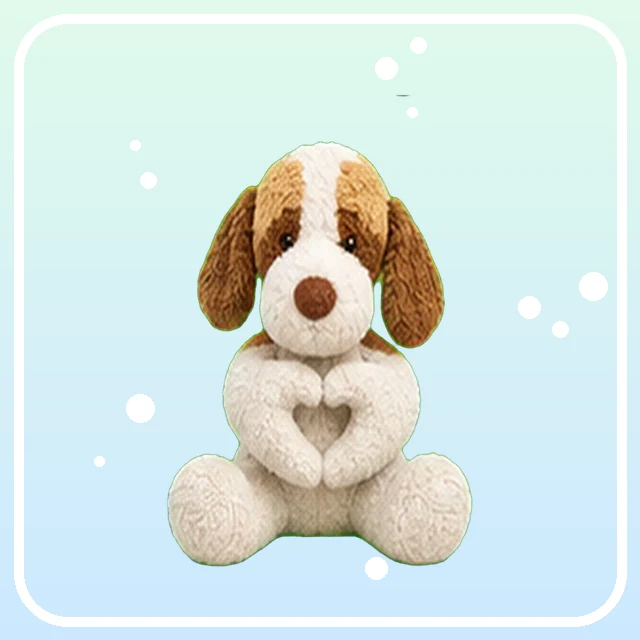
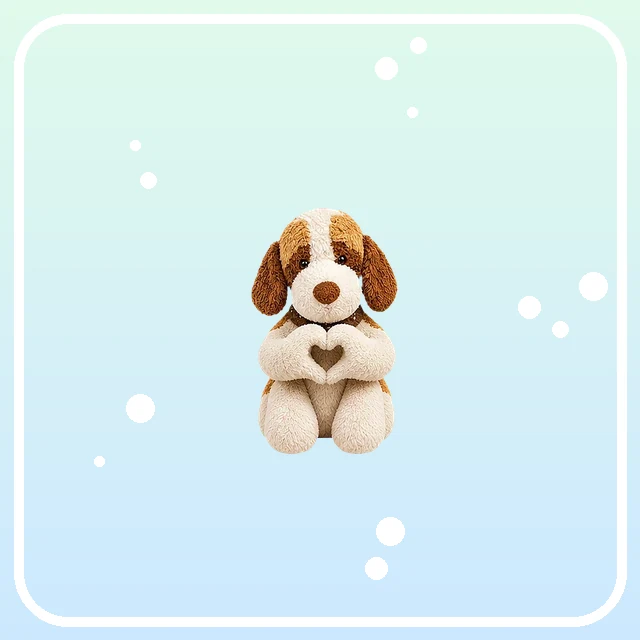
feat: refresh Baibai navigation artwork

Changed region(s): [[0.25, 0.2188, 0.75, 0.9062]]

diff --git a/sw.js b/sw.js
@@ -1,4 +1,4 @@
-const CACHE = "learning-planet-v7";
+const CACHE = "learning-planet-v8";
 const CORE = ["./", "./index.html", "./app.js", "./manifest.json", "./assets/baibai-base.png"];
 self.addEventListener("install", e => e.waitUntil(caches.open(CACHE).then(c => c.addAll(CORE)).then(() => self.skipWaiting())));
 self.addEventListener("activate", e => e.waitUntil(caches.keys().then(keys => Promise.all(keys.filter(k => k !== CACHE).map(k => caches.delete(k)))).then(() => self.clients.claim())));

diff --git a/tests/test.js b/tests/test.js
@@ -36,7 +36,7 @@ w.localStorage.removeItem("treasureWriting_v1");
 w.learningHub.paint();
 ok($("#coins").textContent === "0" && $("#englishToday").textContent.includes("等你来玩"), "缺失或损坏存档时轻松邀请，不白屏");
 ok(!app.includes("setItem("), "导航页不写入两边的学习存档");
-ok(fs.readFileSync(path.join(ROOT,"sw.js"),"utf8").includes("learning-planet-v7"), "缓存号已升级");
+ok(fs.readFileSync(path.join(ROOT,"sw.js"),"utf8").includes("learning-planet-v8"), "缓存号已升级");
 ok(fs.readFileSync(path.join(ROOT,"sw.js"),"utf8").includes('fallback || fresh'), "★ 慢网络优先显示缓存页并在后台更新");
 ok(!w.document.body.textContent.includes("辛苦") && !w.document.body.textContent.includes("未完成"), "★ 导航页不使用制造压力的文案");
 